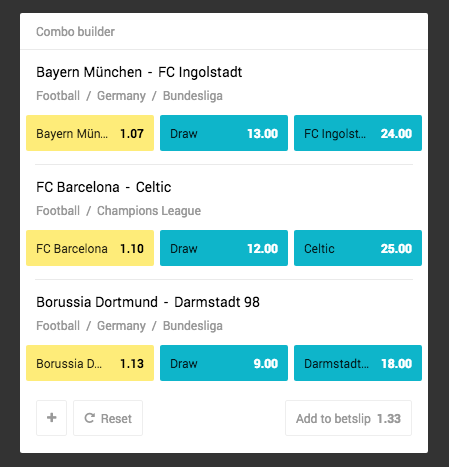
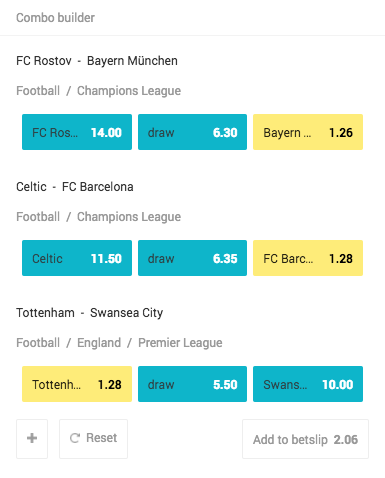
Reworked add event logic to allow for events with no selected outcomes Updated screenshot Added odds range filtering

diff --git a/src/js/Store/store.js b/src/js/Store/store.js
@@ -1,4 +1,4 @@
-import { offeringModule, widgetModule } from 'kambi-widget-core-library';
+import { offeringModule, widgetModule, coreLibrary } from 'kambi-widget-core-library';
 
 /**
  * Perform a quicksort on the bet offers based on their lowest outcome
@@ -7,7 +7,7 @@ import { offeringModule, widgetModule } from 'kambi-widget-core-library';
  * @param {number} [right] Option end index
  * @returns {Array} Returns an array of bet offers
  */
-const quickSortBetEvents = function(items, left, right) {
+const quickSortBetEvents = function ( items, left, right ) {
    function swap ( items, firstIndex, secondIndex ) {
       const temp = items[firstIndex];
       items[firstIndex] = items[secondIndex];
@@ -19,14 +19,14 @@ const quickSortBetEvents = function(items, left, right) {
       let i = left,
          j = right;
 
-      while (i <= j) {
-         while (items[i].betOffers.outcomes[items[i].betOffers.lowestOutcome].odds <
-         pivot.betOffers.outcomes[pivot.betOffers.lowestOutcome].odds) {
+      while ( i <= j ) {
+         while ( items[i].betOffers.outcomes[items[i].betOffers.lowestOutcome].odds <
+         pivot.betOffers.outcomes[pivot.betOffers.lowestOutcome].odds ) {
             i++;
          }
 
-         while (items[j].betOffers.outcomes[items[j].betOffers.lowestOutcome].odds >
-         pivot.betOffers.outcomes[pivot.betOffers.lowestOutcome].odds) {
+         while ( items[j].betOffers.outcomes[items[j].betOffers.lowestOutcome].odds >
+         pivot.betOffers.outcomes[pivot.betOffers.lowestOutcome].odds ) {
             j--;
          }
 
@@ -42,17 +42,17 @@ const quickSortBetEvents = function(items, left, right) {
 
    let index;
 
-   if (items.length > 1) {
+   if ( items.length > 1 ) {
       left = typeof left !== 'number' ? 0 : left;
       right = typeof right !== 'number' ? items.length - 1 : right;
 
       index = partition(items, left, right);
 
-      if (left < index - 1) {
+      if ( left < index - 1 ) {
          quickSortBetEvents(items, left, index - 1);
       }
 
-      if (index < right) {
+      if ( index < right ) {
          quickSortBetEvents(items, index, right);
       }
    }
@@ -64,28 +64,39 @@ const quickSortBetEvents = function(items, left, right) {
  * Sorts the events bases on the lowest outcome odds in the first offer, if it has any offer
  * If the event does not contain a bet offer then it is filtered out
  * @param {Array.<Object>} events An array of events, each containing events and betOffers.
+ * @param {Array} range An array of 2 odd values.
  * @returns {Array} The sorted and filtered array
  */
-const sortEventOffers = function(events) {
+const sortEventOffers = function ( events, range ) {
    const len = events.length,
       eventsWithOffers = [];
 
-   for (let i = 0; i < len; ++i) {
-      // Find the lowest outcome odds in the offering, store the index of the lowest outcome in the object for reference, rather than sorting the outcomes
-      if (events[i].betOffers != null && events[i].betOffers.outcomes != null && events[i].betOffers.outcomes.length > 0 &&
-         events[i].betOffers.outcomes.length <= 3 && events[i].event.openForLiveBetting !== true) {
+   for ( let i = 0; i < len; ++i ) {
+      // Find the lowest outcome odds in the offering, store the index of the lowest outcome in the object for reference,
+      // rather than sorting the outcomes. Also check that the event has outcomes within the range filter
+      if ( events[i].betOffers != null && events[i].betOffers.outcomes != null && events[i].betOffers.outcomes.length > 0 &&
+         events[i].betOffers.outcomes.length <= 3 && events[i].event.openForLiveBetting !== true ) {
          const outcomesLen = events[i].betOffers.outcomes.length;
          let lowestOutcome = 0;
 
-         for (let j = 1; j < outcomesLen; ++j) {
-            if (events[i].betOffers.outcomes[j].odds < events[i].betOffers.outcomes[lowestOutcome].odds) {
+         let inRange = false;
+
+         for ( let j = 1; j < outcomesLen; ++j ) {
+
+            if ( events[i].betOffers.outcomes[j].odds >= range[0] * 1000 && events[i].betOffers.outcomes[j].odds <= range[1] * 1000 ) {
+               inRange = true;
+            }
+
+            if ( events[i].betOffers.outcomes[j].odds < events[i].betOffers.outcomes[lowestOutcome].odds ) {
                lowestOutcome = j;
             }
          }
 
-         events[i].betOffers.lowestOutcome = lowestOutcome;
+         if ( inRange ) {
+            events[i].betOffers.lowestOutcome = lowestOutcome;
+            eventsWithOffers.push(events[i]);
+         }
 
-         eventsWithOffers.push(events[i]);
       }
    }
 
@@ -93,11 +104,19 @@ const sortEventOffers = function(events) {
    return quickSortBetEvents(eventsWithOffers);
 };
 
-const getEvents = function(sport, defaultListLimit) {
+const getEvents = function ( sport, defaultListLimit, range ) {
+
+   // Check that we get a valid range, revert to default one if not
+   if ( typeof range !== 'object' || range.length !== 2 || isNaN(range[0] + range[1]) ||
+      (range[0] < 1 || range[1] < 1) || range[0] == range[1] ) {
+      console.error('Invalid oddsRange. Using default value:', coreLibrary.defaultArgs.oddsRange);
+      range = coreLibrary.defaultArgs.oddsRange;
+   }
+
    // Call the api and get the filtered events
    return offeringModule.getHighlight()
-      .then((response) => {
-         if (!Array.isArray(response.groups)) {
+      .then(( response ) => {
+         if ( !Array.isArray(response.groups) ) {
             throw new Error('Invalid response from highlights api');
          }
 
@@ -112,34 +131,36 @@ const getEvents = function(sport, defaultListLimit) {
 
          return offeringModule.getEventsByFilter(filter);
       })
-      .then((response) => {
+      .then(( response ) => {
          const events = [];
 
-         for (let i = 0; i < response.events.length; i++) {
+         range.sort();
+
+         for ( let i = 0; i < response.events.length; i++ ) {
             response.events[i].betOffers = response.events[i].betOffers[0];
          }
 
-         const sortedEvents = sortEventOffers(response.events);
+         const sortedEvents = sortEventOffers(response.events, range);
 
          const len = sortedEvents.length,
             addedTeams = [];
 
          let selectionCounter = 0;
 
-         for (let i = 0; i < len; ++i) {
+         for ( let i = 0; i < len; ++i ) {
             // Check that the participants are not a in a previously added event, since they can only be in one outcome on the betslip
             let participantsExist = false;
 
-            if (sortedEvents[i].event.homeName != null) {
-               if (addedTeams.indexOf(sortedEvents[i].event.homeName) === -1) {
+            if ( sortedEvents[i].event.homeName != null ) {
+               if ( addedTeams.indexOf(sortedEvents[i].event.homeName) === -1 ) {
                   addedTeams.push(sortedEvents[i].event.homeName);
                } else {
                   participantsExist = true;
                }
             }
 
-            if (sortedEvents[i].event.awayName != null) {
-               if (addedTeams.indexOf(sortedEvents[i].event.awayName) === -1) {
+            if ( sortedEvents[i].event.awayName != null ) {
+               if ( addedTeams.indexOf(sortedEvents[i].event.awayName) === -1 ) {
                   addedTeams.push(sortedEvents[i].event.awayName);
                } else {
                   participantsExist = true;
@@ -147,8 +168,8 @@ const getEvents = function(sport, defaultListLimit) {
             }
 
             // Finally if the participant hasn't already been added, add it now
-            if (!participantsExist) {
-               if (selectionCounter < defaultListLimit) {
+            if ( !participantsExist ) {
+               if ( selectionCounter < defaultListLimit ) {
                   sortedEvents[i].betOffers.outcomes[sortedEvents[i].betOffers.lowestOutcome].selected = true;
                   selectionCounter++;
                }

diff --git a/src/js/app.jsx b/src/js/app.jsx
@@ -9,10 +9,15 @@ coreLibrary.init({
    sport: 'FOOTBALL',
    defaultListLimit: 3, // A default setting for the size of the list, used when resetting
    selectionLimit: 12, // The maximum allowed selections, the bet slip supports up to 12 outcomes
-   replaceOutcomes: true // When selecting a different outcome in a betoffer that has already been added to the betslip, should we replace it?
+   replaceOutcomes: true, // When selecting a different outcome in a betoffer that has already been added to the betslip, should we replace it?
+   oddsRange: [1, 8]
 })
-.then(() => store.getEvents(coreLibrary.args.sport, coreLibrary.args.defaultListLimit))
+.then(() => store.getEvents(coreLibrary.args.sport, coreLibrary.args.defaultListLimit, coreLibrary.args.oddsRange.sort()))
 .then((events) => {
+
+   if (events.length <= 1) {
+      throw new Error('Not enough events')
+   }
    coreLibrary.setWidgetTrackingName(coreLibrary.args.widgetTrackingName);
 
    ReactDOM.render(

diff --git a/src/js/Components/ComboWidget.jsx b/src/js/Components/ComboWidget.jsx
@@ -272,7 +272,7 @@ class ComboWidget extends React.Component {
             <Footer>
                <AddEventButton
                   action={this.selectNextOutcome.bind(this)}
-                  disabled={this.state.listLimit >= this.props.selectionLimit}
+                  disabled={this.state.listLimit >= this.props.selectionLimit || this.props.events.length <= this.state.listLimit}
                />
                <ResetSelectionButton
                   action={this.resetSelection.bind(this)}

diff --git a/src/scss/widget/_widget-theme.scss b/src/scss/widget/_widget-theme.scss
@@ -13,6 +13,7 @@
 }
 
 .kw-event__participants {
+   cursor: pointer;
    display: flex;
    padding-bottom: 6px;
    font-size: 14px;

diff --git a/README.md b/README.md
@@ -16,6 +16,7 @@ Arguments and default values:
    "selectionLimit": 12,
    "replaceOutcomes": true,
    "widgetTrackingName": "gm-combo-widget"
+   "range": [1,8]
 }
 ```
 
@@ -24,6 +25,7 @@ Arguments and default values:
 3. `selectionLimit` - integer - the maximum allowed selections, the bet slip supports up to 12 outcomes
 4. `replaceOutcomes` When selecting a different outcome in a betoffer that has already been added to the betslip, should we replace it?
 5. `widgetTrackingName` - string - tracking name for analytics purposes
+6. `oddsRange` - array - Filters out events if none of their bet outcomes is not with this range (Should be an array of 2 numbers for example `[1.5, 5.5]`)
 
 
 ### Build Instructions
